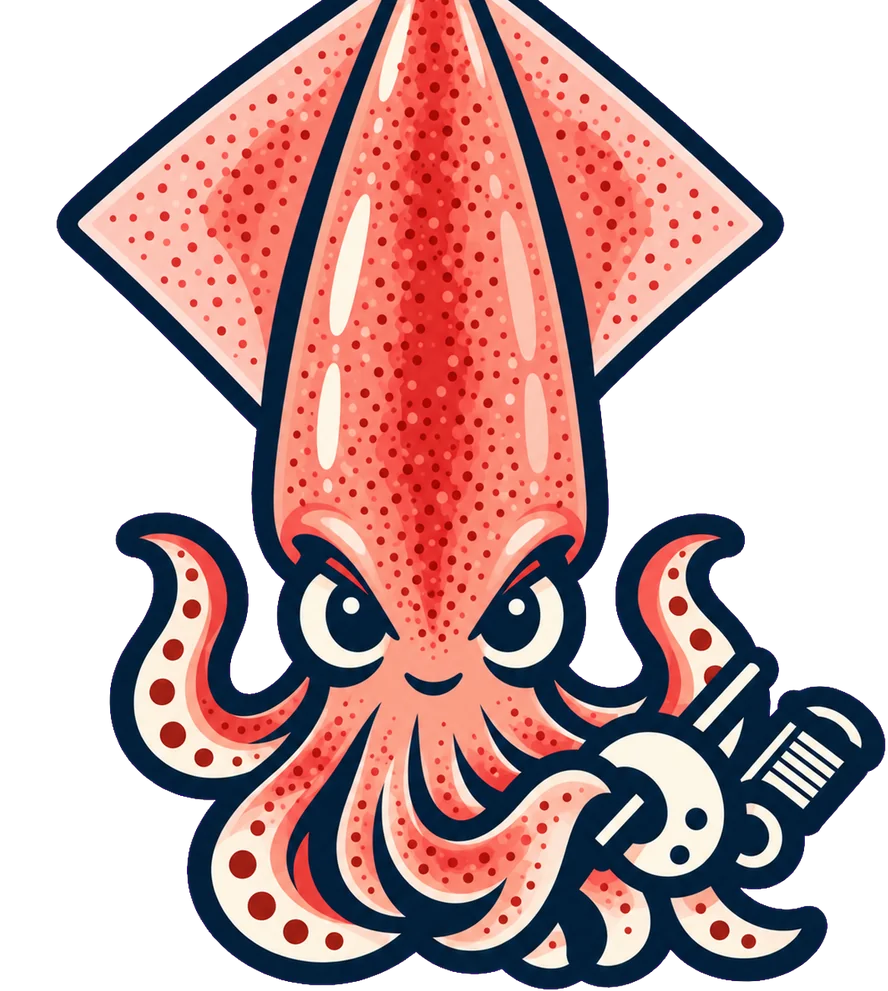
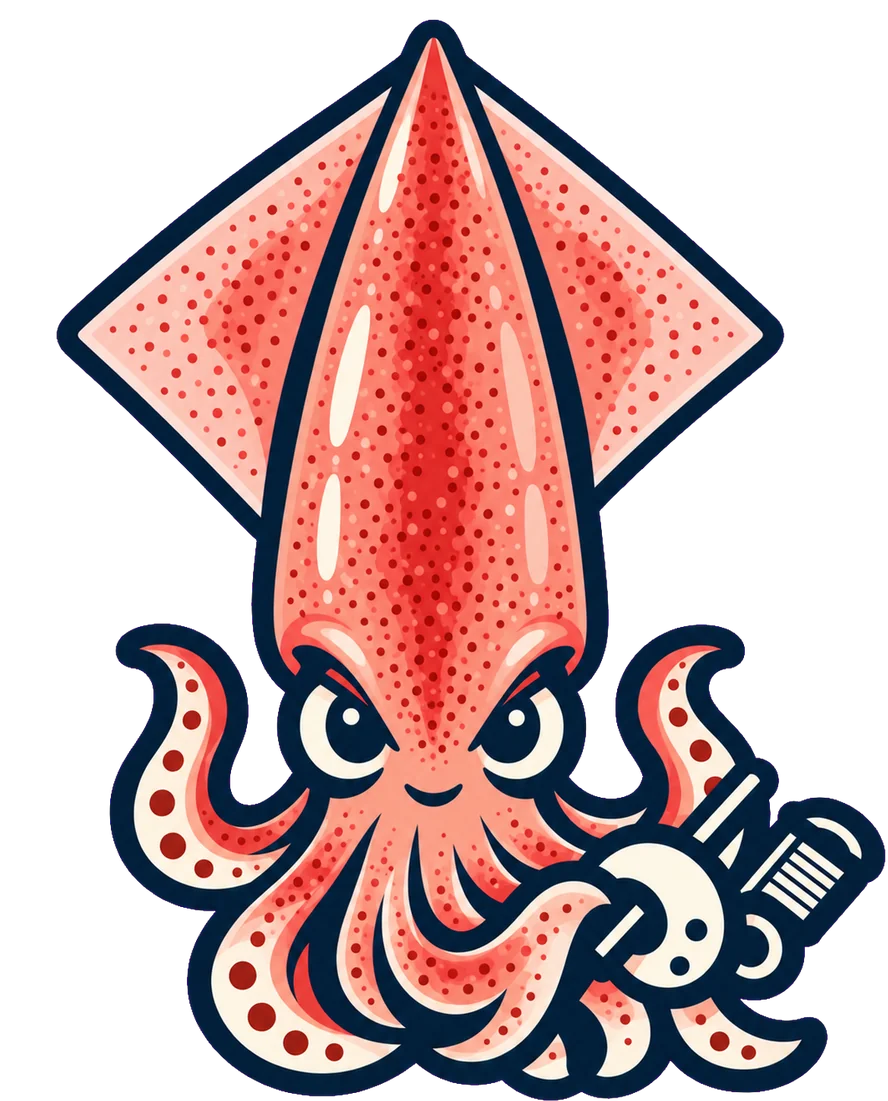
釣り人キャラ：ヤリ・ケンサキの胴の先が切れていたので、絵の台紙を上に110px広げ、舞台ではその分だけ上へ伸ばして置く（ぱっぱ指摘）

diff --git a/src/js/ikabu/games/egi-ui.js b/src/js/ikabu/games/egi-ui.js
@@ -27,7 +27,7 @@ import { rodPathD, lerp } from '../hero-scene.js';
 import { createPendulum, swingEase, flightPoint, headingDeg, flightTime, flightApex, trailingLineD } from '../cast-physics.js';
 import { EGI_TEXT as TX, TOD, SEASON, monthLabel, speciesName, speciesById, YAMAGUCHI_SQUID, GAME_ZUKAN, zukanById, zukanArt } from './play-text.js';
 import { aroundHTML, egiPickerHTML, egiTraitsHTML, egiIconHTML, EGI_LEGS_D } from '../views/play.js';
-import { ANGLERS, anglerOf, readAnglers, writeAnglers, buyAngler, useAngler } from './anglers.js';
+import { ANGLERS, ANGLER_BASE_H, anglerOf, readAnglers, writeAnglers, buyAngler, useAngler } from './anglers.js';
 import { readTickets, writeTickets } from './tickets.js';
 import { utcDay } from './rng.js';
 import { recommendedSizes } from './egi-advice.js';
@@ -682,7 +682,11 @@ export function mountEgi(root, { lang = 'ja', demo = null } = {}) {
   let anglerAsk = null;   // 🎫を使う前の「使う？」を出しているキャラ
   function paintAngler() {
     const im = sc?.svg?.querySelector('.ika-eg-angler');
-    if (im) im.setAttribute('href', assetHref(anglerOf(anglerRec.current).src));
+    if (!im) return;
+    const a = anglerOf(anglerRec.current); const B = SCENE.squidBox;
+    const extra = B.h * (a.padTop ?? 0) / ANGLER_BASE_H;   // 上に足した余白の分だけ、上へ伸ばして置く（竿の握りの位置は変えない）
+    im.setAttribute('href', assetHref(a.src));
+    im.setAttribute('y', String(B.y - extra)); im.setAttribute('height', String(B.h + extra));
   }
   function renderAnglerPop() {
     if (!el.anglerPop) return;

diff --git a/src/js/ikabu/games/anglers.js b/src/js/ikabu/games/anglers.js
@@ -5,13 +5,15 @@ import { spend } from './tickets.js';
 
 export const KEY_ANGLERS = 'ikabu.anglers.v1';
 // src は public からの住所。白いイカ（部長）は最初から使える
+// padTop：絵の上に足した余白（立ち絵の高さ 991 に対して）。ヤリ・ケンサキは胴の先が長く、元の枠だと上が切れた（10/2 ぱっぱ指摘）
+export const ANGLER_BASE_H = 991;
 export const ANGLERS = [
   { id: 'shiro', cost: 0, src: '/assets/ikabu/hero-layers/squid.png' },
-  { id: 'aori', cost: 10, src: '/assets/ikabu/anglers/aori.webp' },
-  { id: 'kouika', cost: 10, src: '/assets/ikabu/anglers/kouika.webp' },
-  { id: 'mongo', cost: 10, src: '/assets/ikabu/anglers/mongo.webp' },
-  { id: 'yari', cost: 10, src: '/assets/ikabu/anglers/yari.webp' },
-  { id: 'kensaki', cost: 10, src: '/assets/ikabu/anglers/kensaki.webp' },
+  { id: 'aori', cost: 10, src: '/assets/ikabu/anglers/aori.webp', padTop: 110 },
+  { id: 'kouika', cost: 10, src: '/assets/ikabu/anglers/kouika.webp', padTop: 110 },
+  { id: 'mongo', cost: 10, src: '/assets/ikabu/anglers/mongo.webp', padTop: 110 },
+  { id: 'yari', cost: 10, src: '/assets/ikabu/anglers/yari.webp', padTop: 110 },
+  { id: 'kensaki', cost: 10, src: '/assets/ikabu/anglers/kensaki.webp', padTop: 110 },
 ];
 export const DEFAULT_ANGLER = 'shiro';
 export const anglerOf = (id) => ANGLERS.find((a) => a.id === id) ?? ANGLERS[0];
